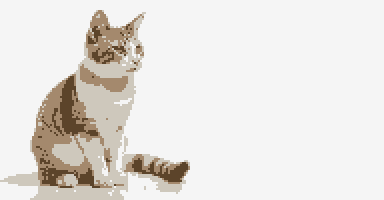
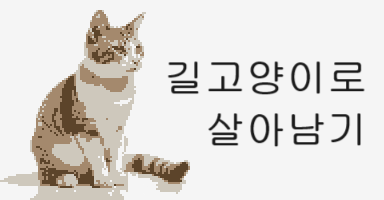
수정1

Changed region(s): [[0.4375, 0.3, 0.9688, 0.48], [0.5312, 0.57, 0.9375, 0.75], [0.375, 0.93, 0.4062, 0.96]]

diff --git a/index.html b/index.html
@@ -2,61 +2,200 @@
 <html>
   <head>
     <meta charset="UTF-8">
-    <meta name="viewport" content="width=device-width, initial-scale=1.0, maximum-scale=1, minimum-scale=1">
-    <title>길고양이 키우기</title>
+    <meta name="viewport" content="width=device-width, initial-scale=1.0">
+    <title>길고양이로 살아남기</title>
     <script>
       window.onload = function() {
         var startBtn = document.getElementsByClassName('introMenu')[0];
         var startMes = document.getElementById('startMessage');
         var helpBtn = document.getElementsByClassName('introMenu')[1];
-        var helpMes = document.getElementById('helpMessage')
+        var helpMes = document.getElementById('helpMessage');
+        var introWindow = document.getElementById('introWindow');
+        var startWindow = document.getElementById('startWindow');
         var modal = document.getElementById('modal');
+        var helpPopup = document.getElementById('helpPopup');
         var closeBtn = document.getElementsByClassName('close')[0];
+        var whiteModal = document.getElementById('whiteModal');
 
         helpBtn.addEventListener('click', function(e) {
-          modal.style.display = 'block';
-          helpMes.style.display = 'block';
-          startMes.style.display = 'none';
+          modal.style.zIndex = '1';
         })
 
         closeBtn.addEventListener('click', function(e) {
-          modal.style.display = 'none';
+          modal.style.zIndex = '-1';
         })
+       startBtn.addEventListener('click', function(e) {
+        whiteModal.style.zIndex = '1';
+        whiteModal.style.opacity = '1';
+        whiteModal.style.transition = '1.5s';
+        setTimeout(function(e) {
+          whiteModal.style.zIndex = '-1';
+          whiteModal.style.opacity = '0';
+          introWindow.style.display = 'none';
+          startWindow.style.display = 'block';
+        }, 1500)
+       })
 
-        startBtn.addEventListener('click', function(e) {
-          modal.style.display = 'block';
-          helpMes.style.display = 'none';
-          startMes.style.display = 'block';
-        })
+       var startMain = document.getElementById('startMain');
+       var startDia = document.getElementById('startDialogue');
+       var nextBtn = document.getElementById('next');
+
+       nextBtn.addEventListener('click', function(e) {
+        if (startDia.innerHTML == "............<br>.......") {
+          startDia.innerHTML = ".......나..<br>....어..나..";
+        } else if (startDia.innerHTML == ".......나..<br>....어..나..") {
+          startDia.innerHTML = "일어나!!";
+          startMain.style.backgroundImage = 'url(cat001.png)';
+          startMain.style.backgroundSize = 'contain';
+        } else if (startDia.innerHTML == "일어나!!") {
+          startDia.style.color = 'blue';
+          startDia.style.fontWeight = 'bold';
+          startDia.innerHTML = "'뭐야.. 웬 고양이..?'";
+        } else if (startDia.innerHTML == "'뭐야.. 웬 고양이..?'") {
+          startDia.style.color = 'black';
+          startDia.style.fontWeight = 'normal';
+          startDia.innerHTML = "어이 네놈<br>처음 보는 얼굴인데<br>이름이 뭐냐?";
+        } else if (startDia.innerHTML == "어이 네놈<br>처음 보는 얼굴인데<br>이름이 뭐냐?") {
+          startDia.style.color = 'blue';
+          startDia.style.fontWeight = 'bold';
+          startDia.innerHTML = "'내 이름...?'";
+          document.getElementById('name').style.display = 'block';
+        } else if (startDia.innerHTML == "'내 이름...?'") {
+          var name = document.getElementsByName('myName')[0].value;
+          if (name == "") {
+            alert('이름을 입력해주세요!');
+          } else {
+            startDia.style.color = 'black';
+            startDia.style.fontWeight = 'normal';
+            startDia.innerHTML = name + "..?<br>인간스러운 이름이군";
+            document.getElementById('name').style.display = 'none';
+            window.localStorage.setItem("name", name);
+          }
+        } else if (startDia.innerHTML == localStorage.getItem("name") + "..?<br>인간스러운 이름이군") {
+          startDia.style.color = 'blue';
+          startDia.style.fontWeight = 'bold';
+          startDia.innerHTML = "'난 인간인데..'<br>'이상한 고양이...'";
+        } else if (startDia.innerHTML == "'난 인간인데..'<br>'이상한 고양이...'") {
+          startDia.innerHTML = "'잠깐.. 내가 어떻게<br>고양이가 하는 말을<br>알아듣는거지?'"
+        } else if (startDia.innerHTML == "'잠깐.. 내가 어떻게<br>고양이가 하는 말을<br>알아듣는거지?'") {
+          startDia.innerHTML = "이봐 넌 대체 뭐야?";
+        } else if (startDia.innerHTML == "이봐 넌 대체 뭐야?") {
+          startDia.style.color = 'black';
+          startDia.style.fontWeight = 'normal';
+          startDia.innerHTML = "나 말인가?<br>나는 검은 발톱이다.";
+        } else if (startDia.innerHTML == "나 말인가?<br>나는 검은 발톱이다.") {
+          startDia.style.color = 'blue';
+          startDia.style.fontWeight = 'bold';
+          startDia.innerHTML = ".......";
+        } else if (startDia.innerHTML == ".......") {
+          startDia.innerHTML = "아니 그...<br>검은 발톱씨?";
+        } else if (startDia.innerHTML == "아니 그...<br>검은 발톱씨?") {
+          startDia.innerHTML = "우리가 어떻게<br>대화할 수 있는지<br>모르겠지만";
+        } else if (startDia.innerHTML == "우리가 어떻게<br>대화할 수 있는지<br>모르겠지만") {
+          startDia.innerHTML = "여긴 도대체 어디야?";
+        } else if (startDia.innerHTML == "여긴 도대체 어디야?") {
+          startDia.style.color = 'black';
+          startDia.style.fontWeight = 'normal';
+          startDia.innerHTML = "이곳은 중앙광장이다.";
+        } else if (startDia.innerHTML == "이곳은 중앙광장이다.") {
+          startDia.style.color = 'blue';
+          startDia.style.fontWeight = 'bold';
+          startDia.innerHTML = "'중앙광장은 또<br>어디에 있는 곳이야..'";
+        } else if (startDia.innerHTML == "'중앙광장은 또<br>어디에 있는 곳이야..'") {
+          startDia.innerHTML = "'잠깐.. 설마 여기<br>고려대학교 중앙광장??'";
+        } else if (startDia.innerHTML == "'잠깐.. 설마 여기<br>고려대학교 중앙광장??'") {
+          startDia.style.color = 'black';
+          startDia.style.fontWeight = 'normal';
+          startDia.innerHTML = "이봐 조심해!<br>인간들이 다가온다.";
+        } else if (startDia.innerHTML == "이봐 조심해!<br>인간들이 다가온다.") {
+          startMain.style.backgroundImage = 'url(people001.png)';
+          startMain.style.backgroundSize = 'contain';
+          startDia.innerHTML = "어머, 못보던 고양이네?<br>너는 어디서 왔니?";
+        } else if (startDia.innerHTML == "어머, 못보던 고양이네?<br>너는 어디서 왔니?") {
+          startDia.style.color = 'blue';
+          startDia.style.fontWeight = 'bold';
+          startDia.innerHTML = "......?<br>아니 누구세요..?<br>사람한테 고양이라니..";
+        } else if (startDia.innerHTML == "......?<br>아니 누구세요..?<br>사람한테 고양이라니..") {
+          startDia.style.color = 'black';
+          startDia.style.fontWeight = 'normal';
+          startDia.innerHTML = "야 애 되게 귀엽다~<br>안 피하고 야옹거리네~";
+        }
+       })
       };
     </script>
     <style>
+      body, Button {
+        font-family: 굴림;
+      }
       #container{
+        border: 2px solid black;
         position: absolute;
         top: 50%;
         left: 50%;
         transform: translate(-50%, -50%);
-        width: 80vw; max-width: 380px; min-width: 260px;
-        height: 75vh; max-height: 420px;
+        width: 80vw;
+        height: 90vw;
       }
       #introWindow{
-        border: 2px solid black;
         background-image: url(intro\ cat.png);
         background-size: contain;
         background-repeat: no-repeat;
         background-color: rgb(245, 245, 245);
-        margin: auto;
-        width: 80vw; max-width: 380px; min-width: 260px;
-        height: 75vh; max-height: 420px;
-        text-align: center;
-        font-family: 굴림;
-      }
-      #gameTitle{
         width: 100%;
-        position: relative;
-        top: 15%;
-        text-align: right;
-        font-size: 3rem;
+        height: 100%;
+        text-align: center;
+      }
+      #startWindow, #gameWindow{
+        background-color: white;
+        width: 100%;
+        height: 100%;
+        display: none;
+      }
+      #startMain {
+        background-size: contain;
+        background-repeat: no-repeat;
+        margin: 0 auto;
+        width: 80%;
+        height: 85%;
+        display: flex;
+        align-items: center;
+        justify-content: center;
+        font-size: 1.2rem;
+      }
+      #startSelect {
+        width: 100%;
+        height: 15%;
+        text-align: center;
+      }
+      #name {
+        border: 1px solid black;
+        width: 45%;
+        display: none;
+        position: absolute;
+        top: 50%; left: 50%;
+        transform: translate(-50%, 0);
+        font-size: 1.2rem;
+      }
+      #next {
+        font-size: 1.2rem;
+      }
+      @media only screen and (max-width: 720px) {
+        #container, #introWindow{
+          max-width: 330px;
+          max-height: 350px;
+        }
+      }
+      @media only screen and (min-width: 720px) {
+        #container, #introWindow{
+          width: 355px;
+          height: 380px;
+        }
+      }
+      @media only screen and (min-width: 768px) and (orientation: portrait) {
+        #container, #introWindow{
+          width: 495px;
+          height: 525px;
+        }
       }
       #introMenuBoard{
         margin: 0 auto 8px;
@@ -64,7 +203,7 @@
         width: 90%;
         height: 40%;
         position: relative;
-        top: 20%;
+        top: 50%;
         display: flex;
         flex-wrap: wrap;
         justify-content: space-around;
@@ -75,23 +214,27 @@
       .introMenu{
         width: 90%;
         height: 40%;
-        font-family: 굴림;
         font-size: 2.5rem;
       }
       #copyright{
         display: none;
         font-size: 20px;
       }
-      #modal{
+      #modal, #whiteModal{
         position: absolute;
         top: 50%;
         left: 50%;
         transform: translate(-50%, -50%);
-        display: none;
+        z-index: -1;
         width: 100%;
         height: 100%;
-        z-index: 1;
+      }
+      #modal {
         background-color: rgb(0, 0, 0, 0.3);
+      }
+      #whiteModal {
+        background-color: white;
+        opacity: 0;
       }
       #helpPopup{
         position: absolute;
@@ -138,9 +281,6 @@
   <body>
     <div id="container">
       <div id="introWindow">
-        <div id="gameTitle">
-          길고양이로<br>살아남기
-        </div>
         <div id="introMenuBoard">
           <Button class="introMenu">시작하기</Button>
           <Button class="introMenu">도움말</Button>
@@ -152,14 +292,24 @@
           <div id="helpContent">
             <span class="close">&times;</span>
             <div id="helpMessage">
-              길고양이가 되어<br>도심 속에서
-              <br>생존하는 게임입니다.
-            </div>
-            <div id="startMessage">
-              아직 안만들었어 임마!
+              길고양이가 되어<br>도심 속에서<br>생존하는 게임입니다.
             </div>
           </div>
         </div>
+      </div>
+      <div id="whiteModal"></div>
+      <div id="startWindow">
+        <div id="startMain">
+          <span id="startDialogue">............<br>.......</span>
+        </div>
+        <div id="startSelect">
+          <Button id="next">다음</Button>
+        </div>
+        <input id="name" type="text" name="myName">
+      </div>
+      <div id="gameWindow">
+        <div id="mainArea"></div>
+        <div id="selectArea"></div>
       </div>
     </div>
   </body>
